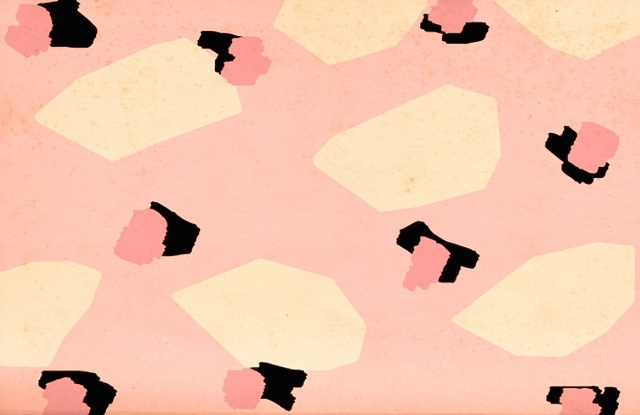
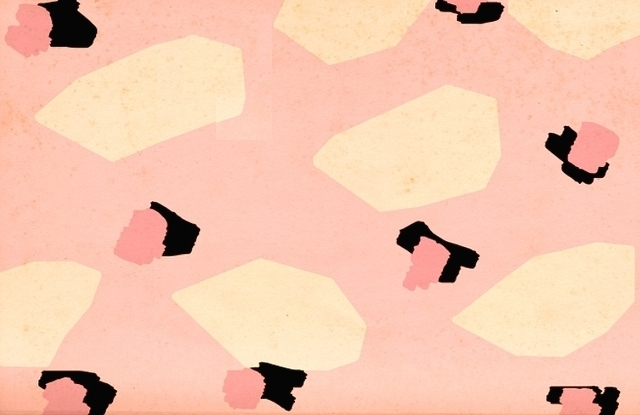
added image to navbar

Changed region(s): [[0.2812, 0.0578, 0.4375, 0.2602], [0.6562, 0.0, 0.8125, 0.1157]]

diff --git a/Aufgabe3/login.html b/Aufgabe3/login.html
@@ -15,7 +15,7 @@
   </head>
   <body>
 
-    <div class="masterhead navbar-fixed-top">
+    <div class="masterhead_color navbar-fixed-top">
       <div class="container">
         <div>
           <h1 class="navbar-header title"><a href="index.html">Spendlr</a></h1>

diff --git a/Aufgabe3/produkt.html b/Aufgabe3/produkt.html
@@ -15,7 +15,7 @@
   </head>
   <body>
 
-    <div class="masterhead navbar-fixed-top">
+    <div class="masterhead_color navbar-fixed-top">
       <div class="container">
         <div>
           <h1 class="navbar-header title"><a href="index.html">Spendlr</a></h1>

diff --git a/Aufgabe3/css/stylesheet.css b/Aufgabe3/css/stylesheet.css
@@ -25,6 +25,10 @@ body {
   background-color: white; /*#CCCC11;*/
 }
 
+.masterhead_color{
+  background-image: url(../media/ag7.jpg);
+}
+
 .nav_item{
   position: relative;
   display: inline-block;
